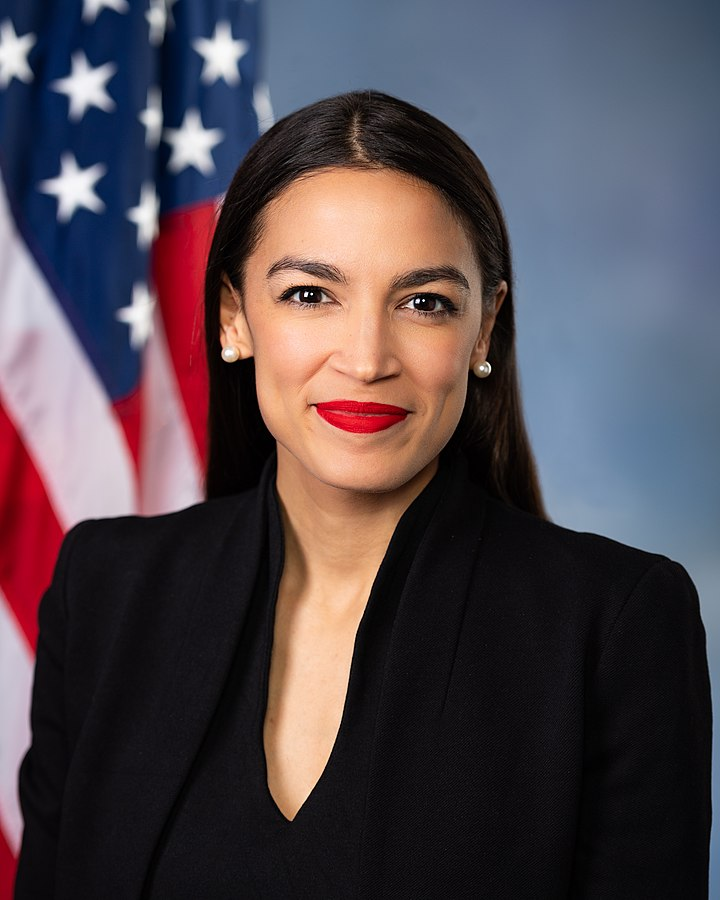
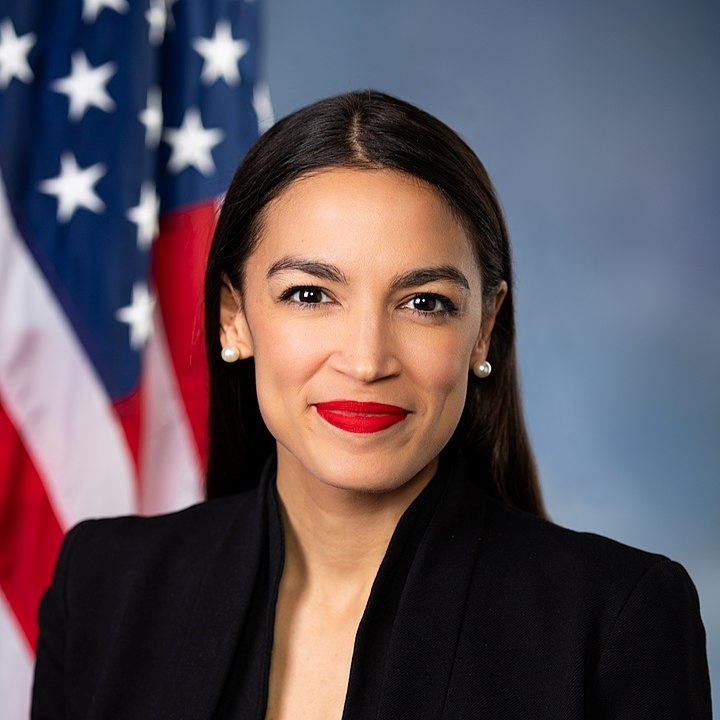
styles cleaned, new profiles, images cropped

diff --git a/style.css b/style.css
@@ -2,48 +2,63 @@ body{
     background: rgb(13,137,17);
     background: linear-gradient(135deg, rgba(13,137,17,0.6281863087031687) 0%, rgba(112,70,252,1) 100%);
     font-family: Helvetica, sans-serif;
-}
-
-h1 {
     color: white;
-    text-align: center;
-    text-transform: uppercase;
-    font-size: 40px;
 }
 
 p {
-    color: white;
     text-align: center;
     font-size: 20px;
     margin-right: 200px;
     margin-left: 200px;
 }
 
-.div1 {
-    color: white;
+h1 {
+    text-align: center;
+    text-transform: uppercase;
+    font-size: 40px;
+}
+
+h2{
+    color:#c7e091;
+    outline: #49A1DA;
+    outline-width: 10px;
     text-align: center;
 }
 
-.div2 {
-    color: white;
+h3{
+    color:#020d70;
+    margin-top: 10px;
     text-align: center;
 }
 
+ul {
+    margin-left: 50px;
+}
+
+li {
+    color: black;
+}
+
+/* Email form*/
+form {
+    text-align: center;
+    font-size: 20px;
+}
+
+/* Center images */
 .center {
     display: block;
     margin-left: auto;
     margin-right: auto;
-    width: 100%;
-  }
+   
+}
 
-
-/* Add a black background color to the top navigation */
+/* Navbar */
 .topnav {
     background-color: #333;
     overflow: hidden;
 }
-  
-  /* Style the links inside the navigation bar */
+
 .topnav a {
     float: left;
     color: #f2f2f2;
@@ -52,33 +67,23 @@ p {
     text-decoration: none;
     font-size: 17px;
 }
-  
-  /* Change the color of links on hover */
+
 .topnav a:hover {
     background-color: #ddd;
     color: black;
 }
-  
-  /* Add a color to the active/current link */
+
 .topnav a.active {
     background-color: rgba(112,70,252,1);
     color: white;
  }
 
-
-ul{
-    margin-left: 50px;
+/* Picture list */
+.row {
+    display: flex;
 }
-
-h3{
-    color:#020d70;
-    margin-left: 50px;
-    margin-top: 10px;
-}
-
-h2{
-    color:#c7e091;
-    outline: #49A1DA;
-    outline-width: 10px;
-    margin: 25px;
+  
+.column {
+    flex: 50%;
+    padding: 150px;
 }

diff --git a/index.html b/index.html
@@ -12,28 +12,43 @@
 <body>
   <div class="topnav">
     <a class="active" href="#home">Exceptional Women</a>
-    <a href="./pages/page1.html">Ocasio-Cortez</a>
-    <a a href="./pages/page2.html">Dr Diamond</a>
+    <a href="./pages/page1.html">Alexandria Ocasio-Cortez</a>
+    <a a href="./pages/page2.html">Dr Marian Diamond</a>
   </div>
 
-  <img src="./images/banner.png" width="600" class="center">
+  <img src="./images/banner.png" width="1500" class="center">
 
   <h1>Exceptional Women</h1>
   
-  <div class="div1">
-    <p>To celebrate International Women's Day, we have decided to highlight 2 women who have done exceptional contributions to their
-      fields and whom we considered role models.
+  <div>
+    <p>To celebrate International Women's Day, we have decided to highlight 2 women who have broken many glass ceilings in their careers,
+      and whom we considered role models.
     </p>
   </div>
 
   
-  <div class="div2">
+  <div>
     <p>
         This year's theme to International Women's Day is #BreaktheBias. It promotes a world free of bias, stereoptypes and discrimination.
     </p>
   </div>
 
-  <p>Subscribe to our newsletter</p>
+<div class="row">
+  <div class="column">
+    <img src="./images/image2.jpg" style="width:100%">
+  </div>
+  <div class="column">
+    <img src="./images/image3.jpg" style="width:100%">
+  </div>
+</div>
+
+<p>
+  <form action="/action_page.php">
+    <label for="email">Subscribe to our newsletter: </label>
+    <input type="email" id="email" name="email">
+    <input type="submit" value="Submit">
+  </form>
+</p>
 
 </body>
 

diff --git a/pages/page1.html b/pages/page1.html
@@ -9,14 +9,14 @@
 <body>
   <div class="topnav">
     <a class="active" href="../index.html">Exceptional Women</a>
-    <a href="./page1.html">Ocasio-Cortez</a>
-    <a a href="./page2.html">Dr Diamond</a>
+    <a href="./page1.html">Alexandria Ocasio-Cortez</a>
+    <a a href="./page2.html">Dr Marian Diamond</a>
   </div>
 
 <h1> Alexandria Ocasio-Cortez </h1>
 
 <h2>13.10.1989 - </h2>
-<img src="../images/image2.jpg" width="200">
+<img src="../images/image2.jpg" width="200" class="center">
 
 <h3>Who is Alexandria Ocasio-Cortez?</h3>
 
@@ -32,5 +32,6 @@
       made campaign-finance reform go viral and helped activists banish Amazon from Queens with 
       a couple of tweets.</li>
 </ul>
+
 
 </body>

diff --git a/pages/page2.html b/pages/page2.html
@@ -9,14 +9,14 @@
 <body>
     <div class="topnav">
         <a class="active" href="../index.html">Exceptional Women</a>
-        <a href="./page1.html">Ocasio-Cortez</a>
-        <a a href="./page2.html">Dr Diamond</a>
+        <a href="./page1.html">Alexandria Ocasio-Cortez</a>
+        <a a href="./page2.html">Dr Marian Diamond</a>
     </div>
 
     <h1>Dr. Marian Diamond</h1>
 
     <h2>11.11.1926 - 25.07.2017</h2>
-    <img src="../images/image3.jpg" width="200">
+    <img src="../images/image3.jpg" width="200" class="center">
 
     <h3>Who is Dr. Marian Diamond?</h3>
     <ul>
